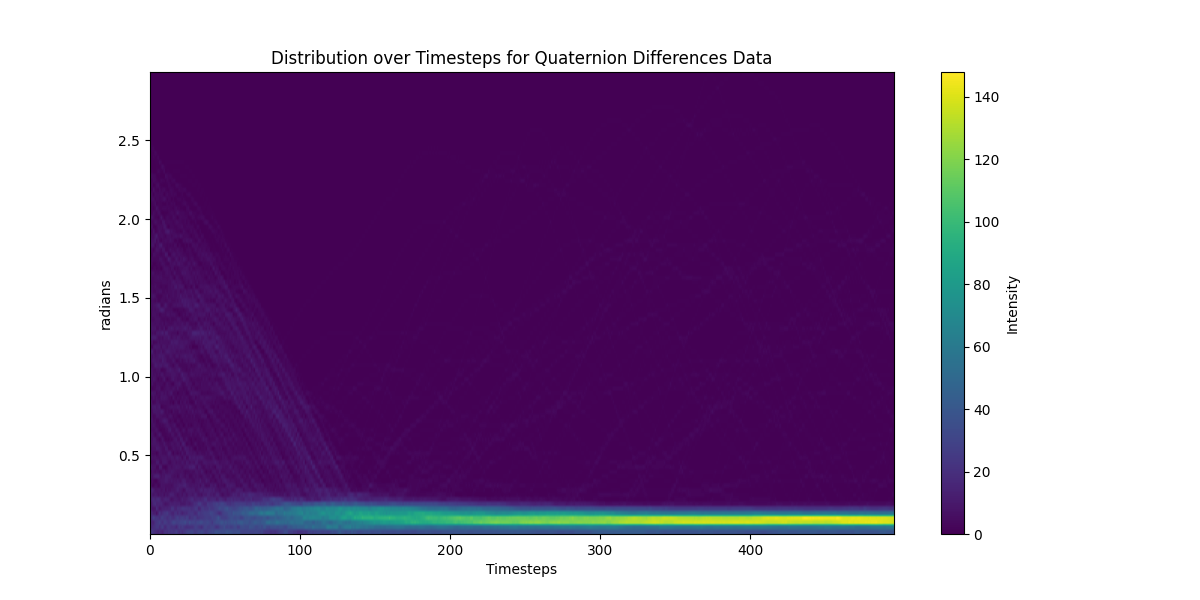
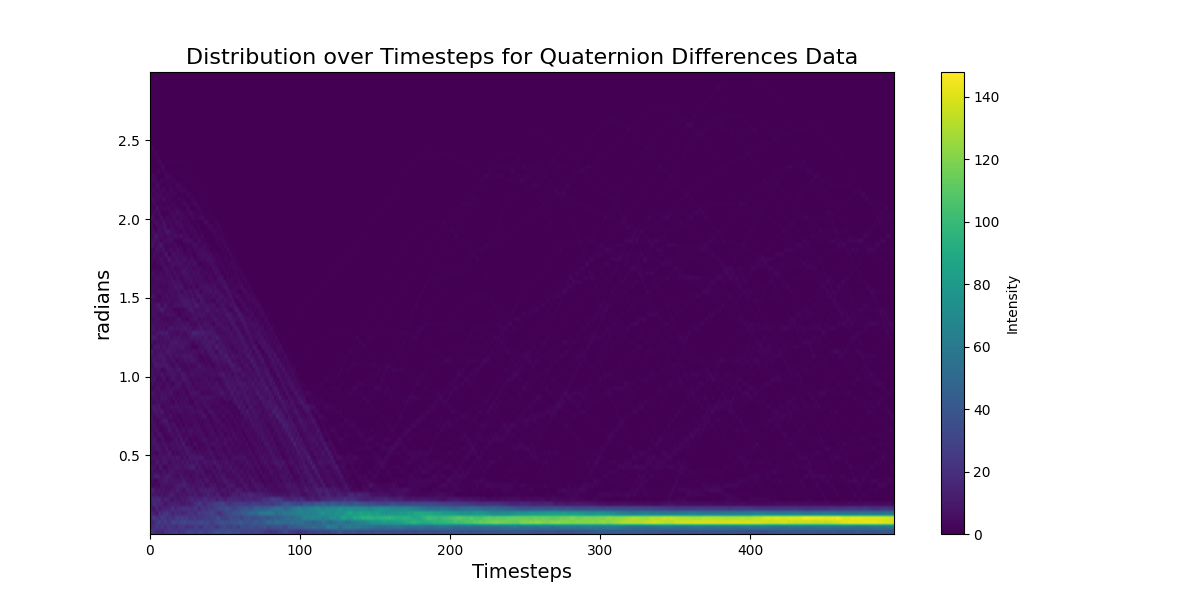
figs updated

Changed region(s): [[0.1542, 0.06, 0.7092, 0.12], [0.0617, 0.45, 0.0925, 0.57], [0.4008, 0.93, 0.4933, 0.96]]

diff --git a/eps_graph.py b/eps_graph.py
@@ -36,9 +36,9 @@ def plot_distribution(distribution, zones, direction, ylabel='Data Value'):
     plt.figure(figsize=(12, 6))
     plt.imshow(distribution.T, aspect='auto', cmap='viridis', origin='lower', extent=[0, distribution.shape[0], zones[0], zones[-1]])
     plt.colorbar(label='Intensity')
-    plt.xlabel('Timesteps')
-    plt.ylabel(ylabel)
-    plt.title(f'Distribution over Timesteps for {direction} Data')
+    plt.xlabel('Timesteps', fontsize=14)
+    plt.ylabel(ylabel, fontsize=14)
+    plt.title(f'Distribution over Timesteps for {direction} Data', fontsize=16)
     plt.savefig(f"{direction}_distribution.png")
 
 def calculate_distribution(data, num_zones=100):
